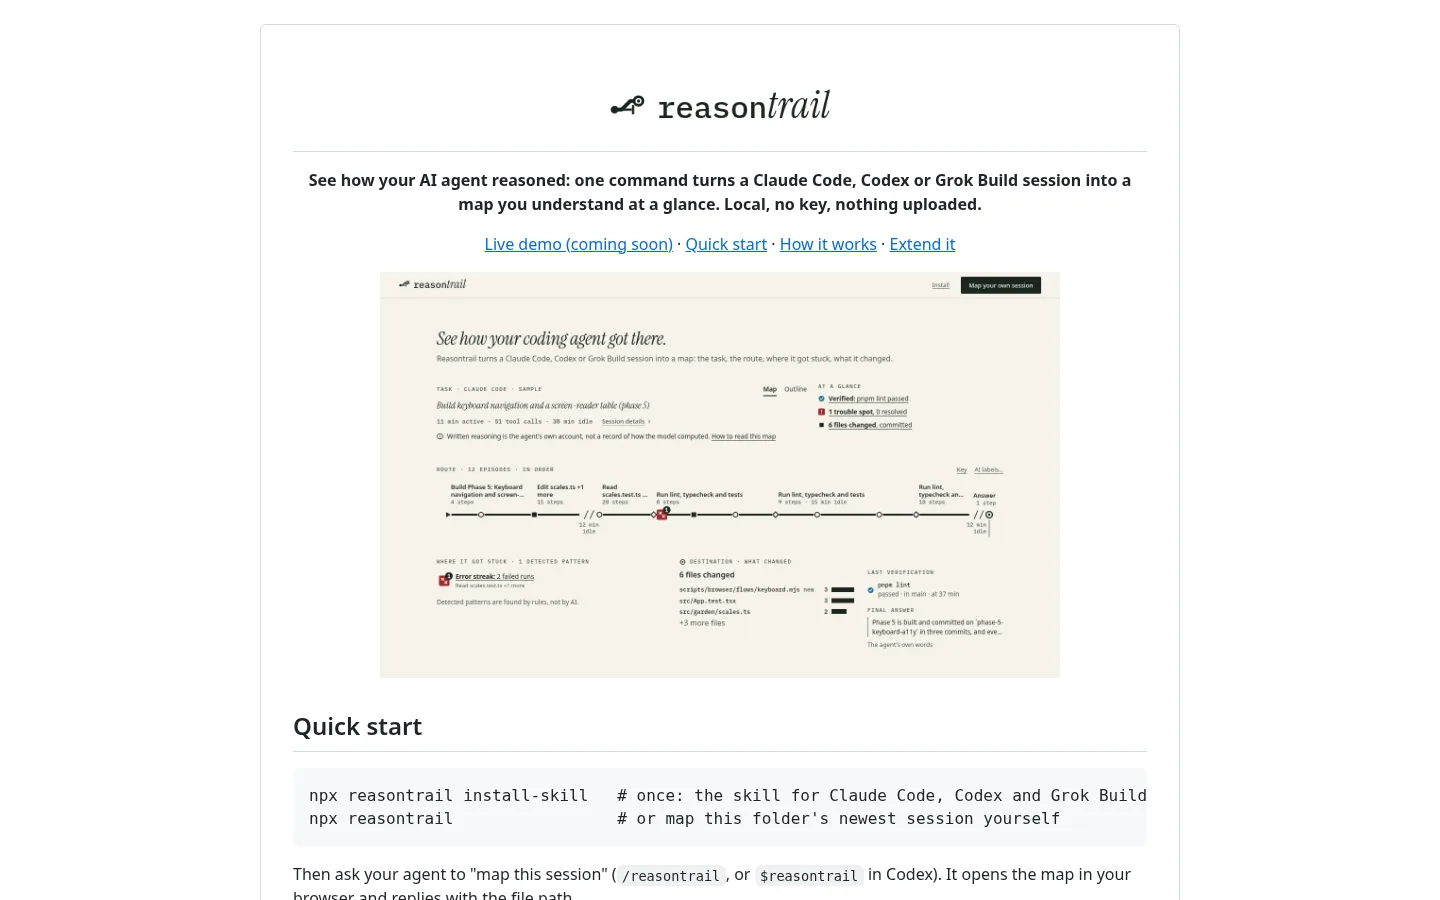
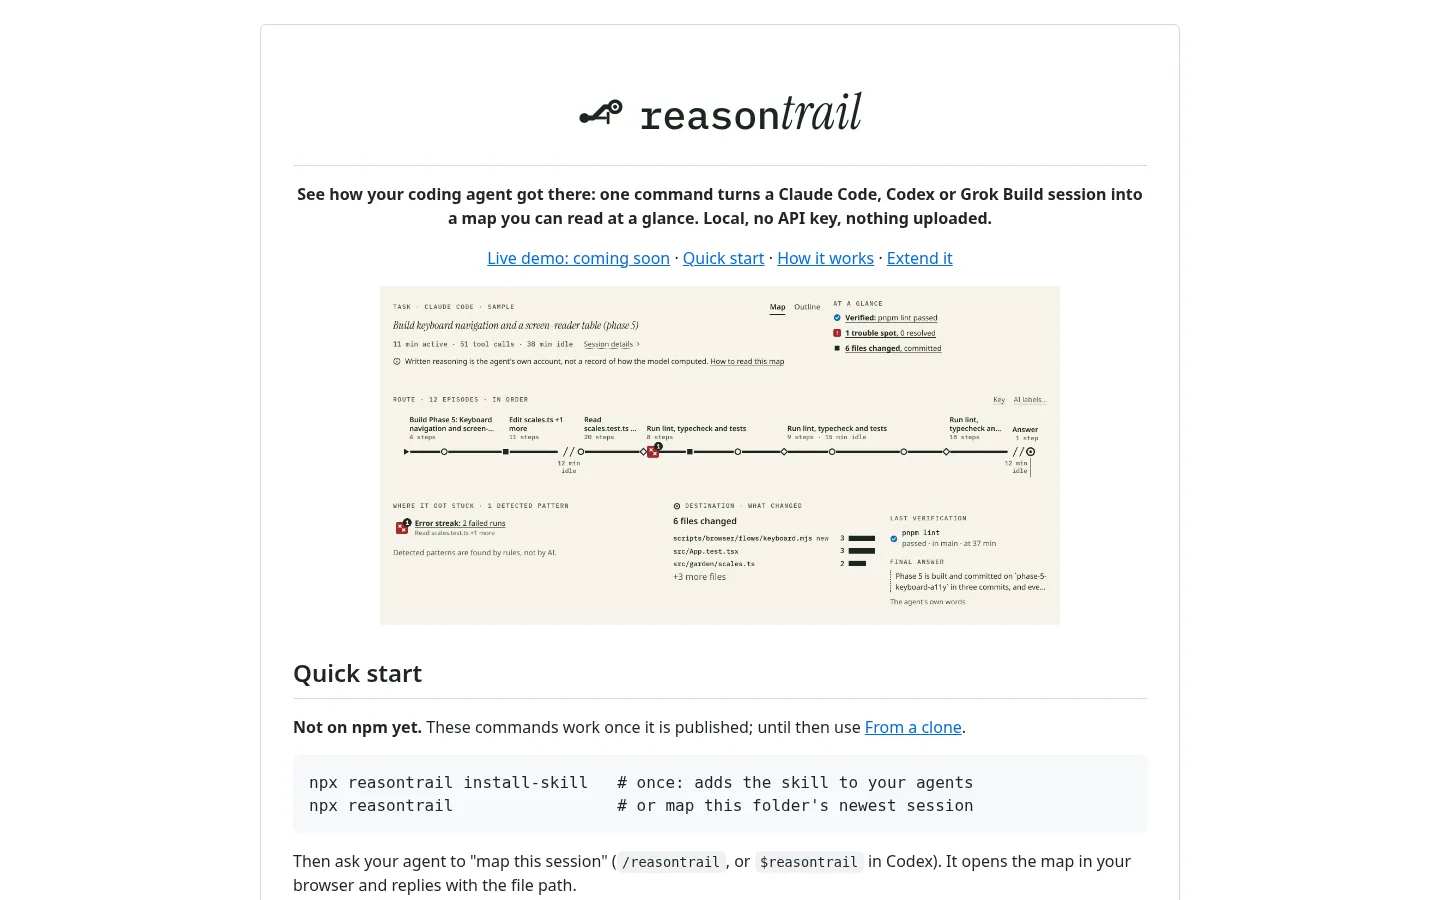
docs: phase 26 review round 1

diff --git a/README.md b/README.md
@@ -1,14 +1,14 @@
 <h1 align="center">
   <picture>
     <source media="(prefers-color-scheme: dark)" srcset="docs/brand/wordmark-dark.png">
-    <img alt="Reasontrail" src="docs/brand/wordmark-light.png" height="48">
+    <img alt="Reasontrail" src="docs/brand/wordmark-light.png" height="62">
   </picture>
 </h1>
 
-<p align="center"><strong>See how your AI agent reasoned: one command turns a Claude Code, Codex or Grok Build session into a map you understand at a glance. Local, no key, nothing uploaded.</strong></p>
+<p align="center"><strong>See how your coding agent got there: one command turns a Claude Code, Codex or Grok Build session into a map you can read at a glance. Local, no API key, nothing uploaded.</strong></p>
 
 <p align="center">
-  <a href="https://reasontrail.example">Live demo (coming soon)</a> ·
+  <a href="#roadmap">Live demo: coming soon</a> ·
   <a href="#quick-start">Quick start</a> ·
   <a href="#how-it-works">How it works</a> ·
   <a href="docs/EXTENDING.md">Extend it</a>
@@ -18,19 +18,23 @@
 
 ## Quick start
 
+**Not on npm yet.** These commands work once it is published; until then use [From a clone](#from-a-clone).
+
 ```sh
-npx reasontrail install-skill   # once: the skill for Claude Code, Codex and Grok Build
-npx reasontrail                 # or map this folder's newest session yourself
+npx reasontrail install-skill   # once: adds the skill to your agents
+npx reasontrail                 # or map this folder's newest session
 ```
 
 Then ask your agent to "map this session" (`/reasontrail`, or `$reasontrail` in Codex). It opens the map in your browser and replies with the file path.
 
-> **Not on npm yet.** Until the package is published, run the same commands from a clone, with `node cli/dist/cli.mjs` in place of `npx reasontrail` (Node 20.19+ and pnpm 9):
->
-> ```sh
-> git clone https://github.com/geekplux/reasontrail && cd reasontrail
-> pnpm install && pnpm build:cli && node cli/dist/cli.mjs install-skill
-> ```
+### From a clone
+
+Until the package is published, run the same commands from a clone, with `node cli/dist/cli.mjs` in place of `npx reasontrail` (Node 20.19+ and pnpm 9):
+
+```sh
+git clone https://github.com/geekplux/reasontrail && cd reasontrail
+pnpm install && pnpm build:cli && node cli/dist/cli.mjs install-skill
+```
 
 More commands:
 
@@ -63,8 +67,8 @@ Grok Build   ─┘            provenance for every step        trouble markers,
 1. **Adapters** read each agent's transcript files where the agent keeps them (`~/.claude/projects`, `~/.codex/sessions`, `~/.grok/sessions`) and turn them into one neutral format.
 2. **The step graph** is built by deterministic rules: the same session always gives the same map, and every step links back to the file and line it came from.
 3. **The map** is a single self-contained HTML file. It opens from `file://`, works offline and makes no requests.
-4. **Optional AI labels.** With `--ai` (or "AI labels…" on the website) a model suggests labels such as hypothesis, evidence or dead end, and links the final claim to the steps that support it. It shows what would be sent and asks first, sends only redacted one-line step summaries, and every label says which model suggested it. Switch the overlay off and the map is exactly as before.
-5. **The zoom-in lens.** Pick a sentence the agent wrote and see an open model's next-token choices as a garden of branches, where thickness is probability. Recorded sentences work offline; others grow live through the Worker only when you ask.
+4. **Optional AI labels.** With `--ai` (or "AI labels…" on the website) a model suggests labels such as hypothesis, evidence or dead end, and links the final claim to the steps that support it. It shows what would be sent and asks first, sends only redacted one-line step summaries, and every label says which model suggested it. Until the hosted Worker is live, point it at your own with `--api <url>` (see docs/EXTENDING.md). Switch the overlay off and the map is exactly as before.
+5. **The zoom-in lens.** Pick a sentence the agent wrote and see an open model's next-token choices as a garden of branches, where thickness is probability. Recorded sentences work offline; others grow live through a Worker (yours, until the hosted one is live), only when you ask.
 
 ## Privacy and honesty
 
@@ -99,7 +103,7 @@ Ideas that are ready to pick up are in [`docs/GOOD-FIRST-ISSUES.md`](docs/GOOD-F
 
 Contributions are welcome: read [`CONTRIBUTING.md`](CONTRIBUTING.md) for setup and checks, and the [Code of Conduct](CODE_OF_CONDUCT.md). Report security issues privately as described in [`SECURITY.md`](SECURITY.md). Changes are listed in [`CHANGELOG.md`](CHANGELOG.md).
 
-The sample maps on the website are sessions of the agents that built this repository: [`CLAUDE.md`](CLAUDE.md) is their operating manual, and [`docs/PLAN.md`](docs/PLAN.md) the plan they work from.
+This project is built by a team of AI agents; see the PR history. The sample maps on the website are their own sessions, and [`docs/PLAN.md`](docs/PLAN.md) is the plan they work from.
 
 ## License
 

diff --git a/CONTRIBUTING.md b/CONTRIBUTING.md
@@ -27,7 +27,7 @@ Run these before you open a pull request. CI runs the same ones (its definition 
 | `pnpm test` | Vitest, one run |
 | `pnpm build` | the website build into `dist/` |
 | `pnpm check:size` | size budgets on `dist/` and the runtime dependency allowlist |
-| `pnpm check:docs` | every relative link and image in the docs resolves, and the README's commands match `shared/commands.ts` |
+| `pnpm check:docs` | every relative link and image in the docs resolves, every image has descriptive alt text, and the README's commands match `shared/commands.ts` |
 | `pnpm check:browser` | builds, starts a preview server and runs the browser flows in headless Chrome with axe; screenshots go to `.tmp/screenshots/` |
 | `pnpm audit:samples` | no secret, email, home path or denylisted term in committed samples and fixtures |
 | `pnpm skill:audit`, `pnpm skill:evals` | the skill's structure, and its offline sandbox cases |
@@ -63,7 +63,7 @@ Follow [`docs/EXTENDING.md`](docs/EXTENDING.md) section 5. In short: add the sou
 - Keep each pull request to one change you can review in about 20 minutes.
 - Add or update tests next to the code. Keep logic in pure, tested modules and components thin.
 - Add a line to `CHANGELOG.md` under "Unreleased".
-- For UI changes, attach a screenshot and check the keyboard path: everything works without a mouse, colour is never the only signal, and motion respects reduced motion.
+- For UI changes, attach a screenshot and check accessibility: everything works with the keyboard alone and focus is always visible; controls and readouts have screen-reader names (check with VoiceOver, NVDA or Orca); colour is never the only signal and categories stay distinct under Chrome DevTools > Rendering > "Emulate vision deficiencies" (protanopia, deuteranopia, tritanopia); text contrast is at least 4.5:1 and graphics at least 3:1; and motion stops under "Emulate CSS prefers-reduced-motion: reduce". `pnpm check:browser` runs axe and must report no violations.
 - No secrets in commits: local keys go in `.dev.vars` (gitignored).
 - Looking for a first task? See [`docs/GOOD-FIRST-ISSUES.md`](docs/GOOD-FIRST-ISSUES.md).
 

diff --git a/docs/GOOD-FIRST-ISSUES.md b/docs/GOOD-FIRST-ISSUES.md
@@ -46,13 +46,13 @@ Scoped tasks for a first contribution. Each one lists why it matters, the files 
 
 ## 8. Render `**bold**` in excerpts
 
-- **Why:** the final answer and other excerpts show Markdown asterisks literally (a phase 25 audit follow-up).
+- **Why:** the final answer and other excerpts show Markdown asterisks literally.
 - **Files:** `src/map/OutcomeCard.tsx`, `src/map/details.ts`.
 - **Done when:** `**text**` renders as bold text without `dangerouslySetInnerHTML`, other Markdown stays plain, and a unit test covers nested and unclosed markers.
 
 ## 9. One time format in `--list`
 
-- **Why:** `--list` mixes two time formats, which makes the newest session hard to spot (a phase 25 follow-up).
+- **Why:** `--list` mixes two time formats, which makes the newest session hard to spot.
 - **Files:** `cli/src/main.ts`, `cli/src/locate/store.ts` (`describe`), `cli/test/`.
 - **Done when:** every row uses the same format, rows line up, and a test pins the output with a fixed clock.
 

diff --git a/.github/pull_request_template.md b/.github/pull_request_template.md
@@ -13,8 +13,11 @@
 
 <!-- Screenshots (light and dark if colours changed). -->
 
-- [ ] Works with the keyboard alone, and colour is never the only signal
-- [ ] Respects reduced motion
+- [ ] Works with the keyboard alone, and focus is always visible
+- [ ] Controls and readouts have screen-reader names
+- [ ] Colour is never the only signal, and categories stay distinct under a protanopia, deuteranopia and tritanopia simulation
+- [ ] Motion stops under reduced motion
+- [ ] `pnpm check:browser` reports no axe violations
 
 ## Privacy
 
